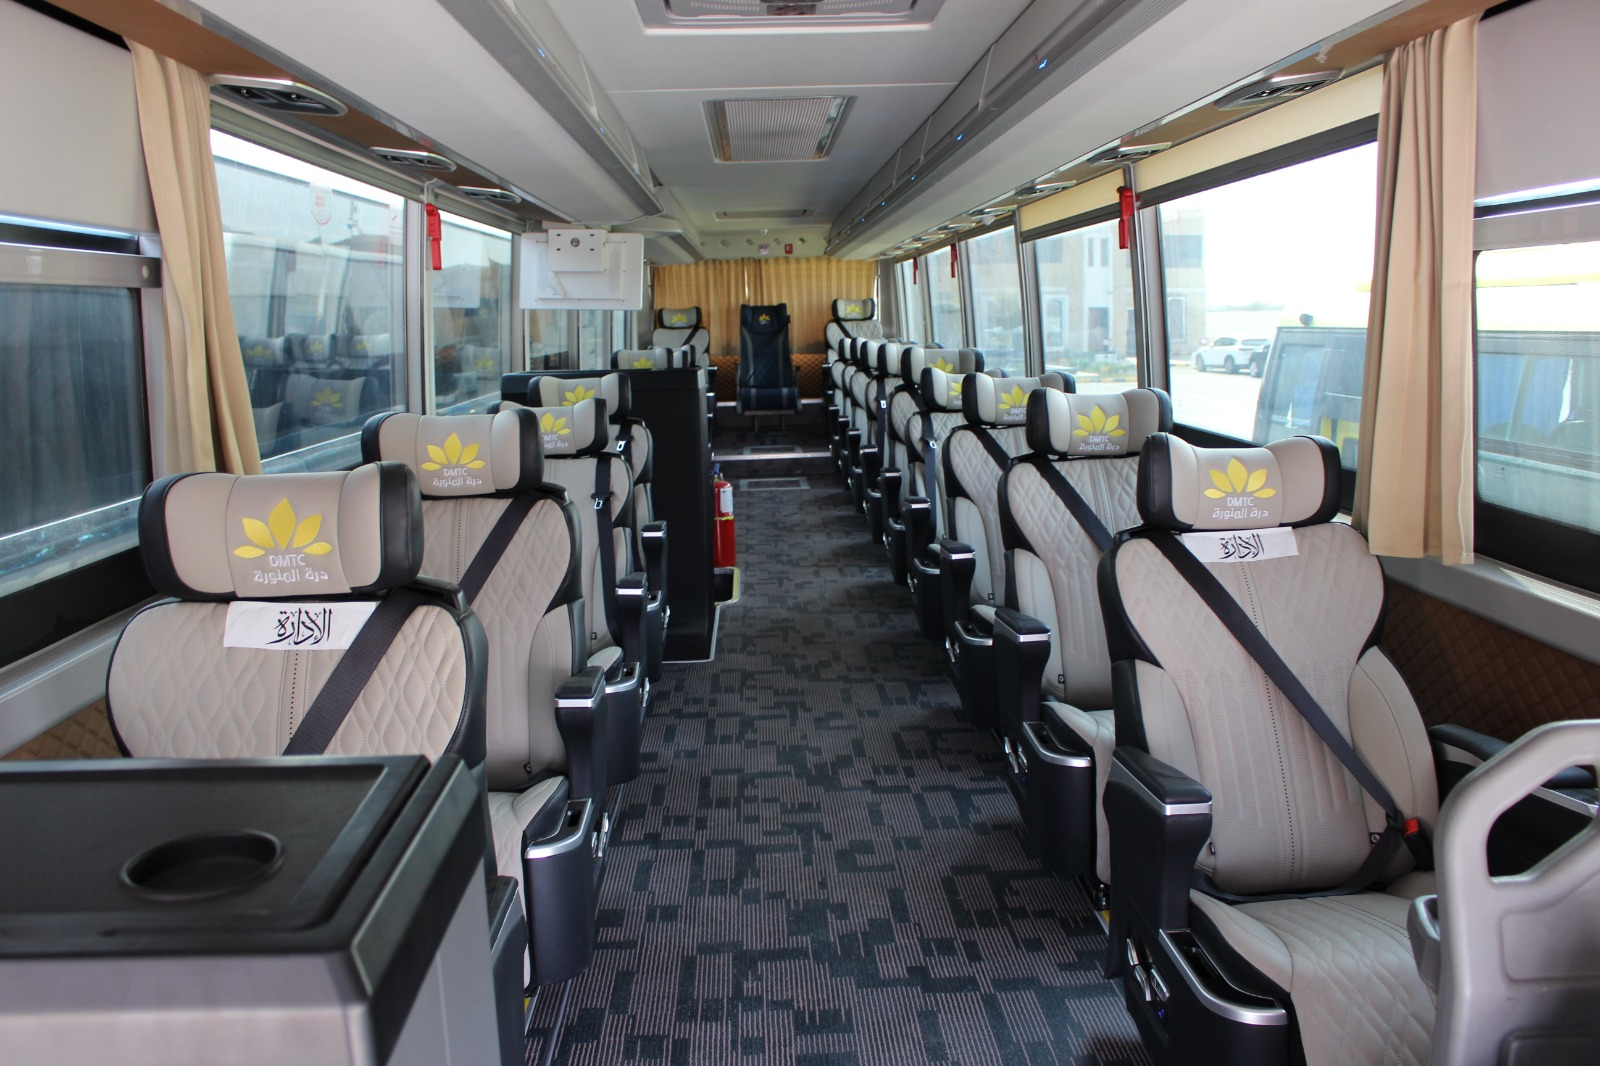
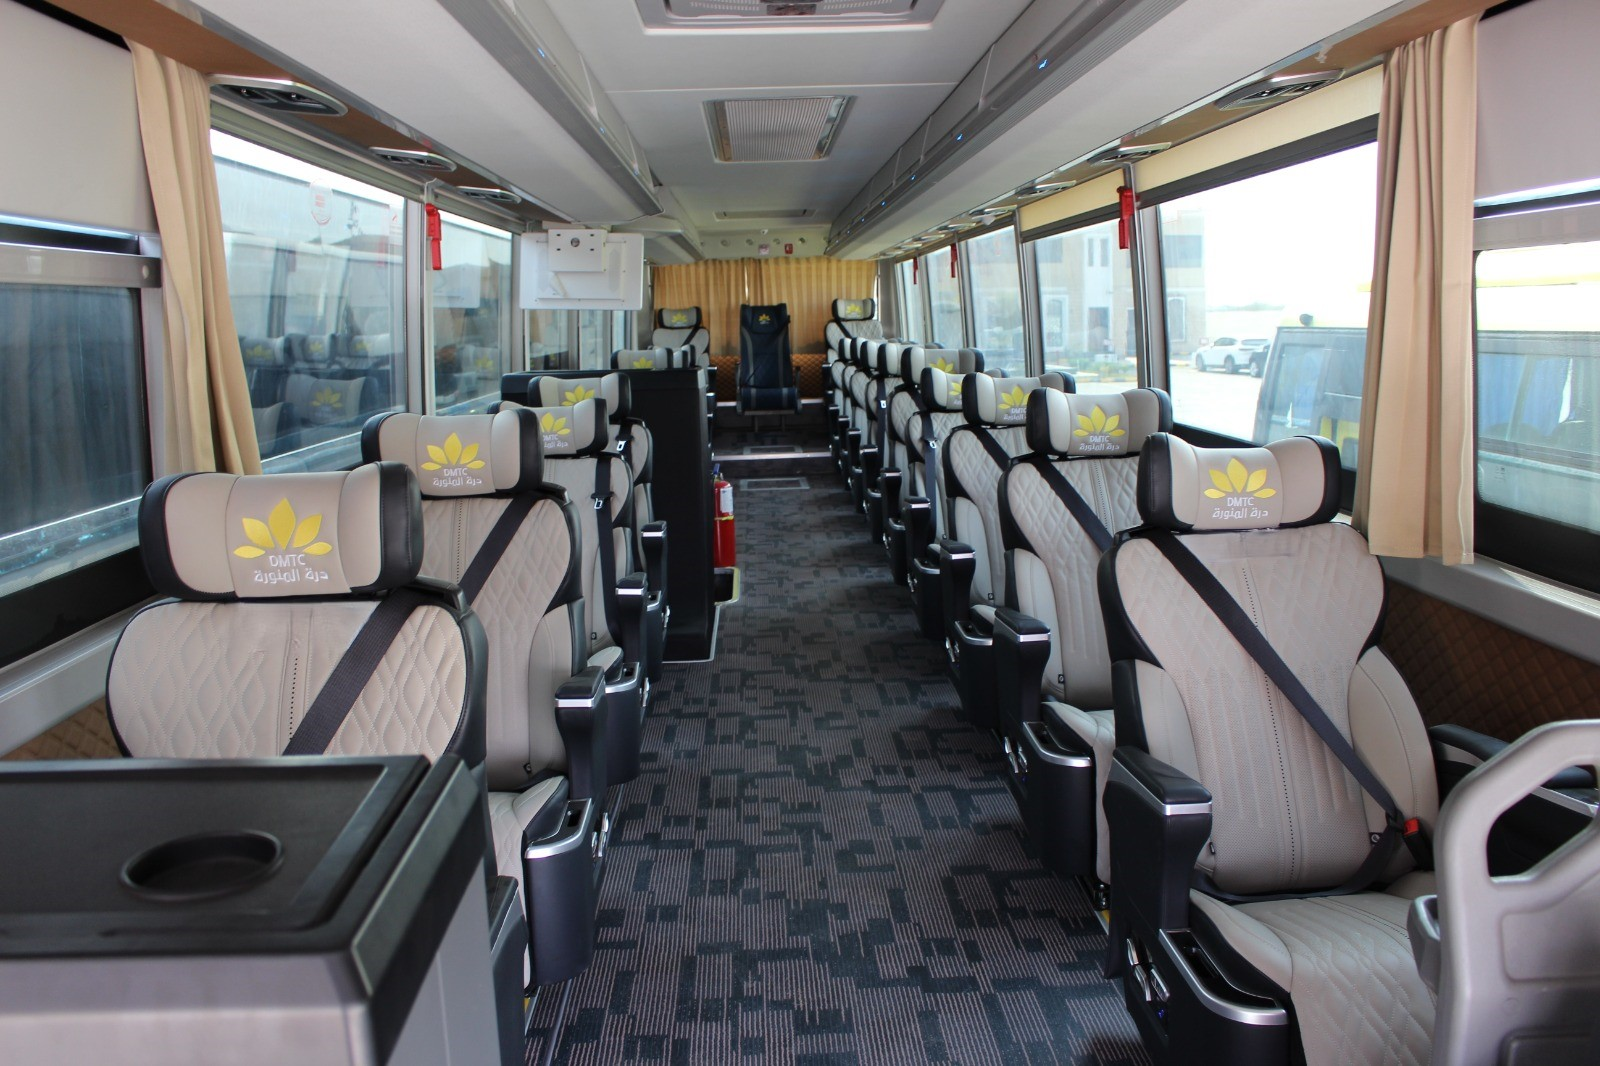
feat(images): update image configurations and replace deprecated assets
- Enhanced image quality settings in next.config.ts by adding new sizes and qualities.
- Replaced deprecated image assets in fleet categories with updated versions.
- Updated multiple components to utilize the new SiteImage component for improved image handling.
- Removed unused image files to streamline the project and reduce clutter.

Changed region(s): [[0.125, 0.5572, 0.25, 0.6191], [0.7188, 0.4953, 0.8125, 0.5263]]

diff --git a/src/content/ar/fleet.ts b/src/content/ar/fleet.ts
@@ -113,22 +113,21 @@ export const fleet: readonly FleetCategory[] = [
       "نظام تحديد المواقع GPS",
       "تكييف مناسب للأجواء",
     ],
-    coverImage: "/fleet/city-2025/side.webp",
+    coverImage: "/fleet/city-2025/side-plaza.jpg",
     exteriorImages: [
-      "/fleet/city-2025/side.webp",
-      "/fleet/city-2025/front.webp",
       "/fleet/city-2025/side-plaza.jpg",
       "/fleet/city-2025/front-plaza.jpg",
+      "/fleet/city-2025/side.webp",
+      "/fleet/city-2025/front.webp",
     ],
     interiorImages: [
-      "/fleet/city-2025/interior.webp",
       "/fleet/city-2025/interior-seats.jpeg",
       "/fleet/city-2025/interior-rows.jpeg",
       "/fleet/city-2025/interior-aisle.jpeg",
       "/fleet/city-2025/interior-cabin.jpeg",
       "/fleet/city-2025/interior-curtains.jpeg",
     ],
-    images: ["/fleet/city-2025/side.webp"],
+    images: ["/fleet/city-2025/side-plaza.jpg"],
   },
   {
     id: "labour-2024",
@@ -162,12 +161,15 @@ export const fleet: readonly FleetCategory[] = [
       "تبريد مريح",
     ],
     coverImage: "/fleet/coaster-2026/side.webp",
-    exteriorImages: ["/fleet/coaster-2026/side.webp", "/fleet/coaster-2026/front.webp"],
+    exteriorImages: [
+      "/fleet/coaster-2026/side.webp",
+      "/fleet/coaster-2026/front.jpg",
+      "/fleet/coaster-2026/side-plaza.jpg",
+    ],
     interiorImages: [
       "/fleet/coaster-2026/interior-aisle.jpeg",
       "/fleet/coaster-2026/interior-cabin.jpeg",
       "/fleet/coaster-2026/interior-curtains.jpeg",
-      "/fleet/coaster-2026/interior-vents.jpeg",
     ],
     images: ["/fleet/coaster-2026/side.webp"],
   },

diff --git a/src/content/en/fleet.ts b/src/content/en/fleet.ts
@@ -113,22 +113,21 @@ export const fleet: readonly FleetCategory[] = [
       "GPS systems",
       "Cooling bus comfort",
     ],
-    coverImage: "/fleet/city-2025/side.webp",
+    coverImage: "/fleet/city-2025/side-plaza.jpg",
     exteriorImages: [
-      "/fleet/city-2025/side.webp",
-      "/fleet/city-2025/front.webp",
       "/fleet/city-2025/side-plaza.jpg",
       "/fleet/city-2025/front-plaza.jpg",
+      "/fleet/city-2025/side.webp",
+      "/fleet/city-2025/front.webp",
     ],
     interiorImages: [
-      "/fleet/city-2025/interior.webp",
       "/fleet/city-2025/interior-seats.jpeg",
       "/fleet/city-2025/interior-rows.jpeg",
       "/fleet/city-2025/interior-aisle.jpeg",
       "/fleet/city-2025/interior-cabin.jpeg",
       "/fleet/city-2025/interior-curtains.jpeg",
     ],
-    images: ["/fleet/city-2025/side.webp"],
+    images: ["/fleet/city-2025/side-plaza.jpg"],
   },
   {
     id: "labour-2024",
@@ -162,12 +161,15 @@ export const fleet: readonly FleetCategory[] = [
       "Cooling bus comfort",
     ],
     coverImage: "/fleet/coaster-2026/side.webp",
-    exteriorImages: ["/fleet/coaster-2026/side.webp", "/fleet/coaster-2026/front.webp"],
+    exteriorImages: [
+      "/fleet/coaster-2026/side.webp",
+      "/fleet/coaster-2026/front.jpg",
+      "/fleet/coaster-2026/side-plaza.jpg",
+    ],
     interiorImages: [
       "/fleet/coaster-2026/interior-aisle.jpeg",
       "/fleet/coaster-2026/interior-cabin.jpeg",
       "/fleet/coaster-2026/interior-curtains.jpeg",
-      "/fleet/coaster-2026/interior-vents.jpeg",
     ],
     images: ["/fleet/coaster-2026/side.webp"],
   },

diff --git a/src/content/fr/fleet.ts b/src/content/fr/fleet.ts
@@ -113,22 +113,21 @@ export const fleet: readonly FleetCategory[] = [
       "Systèmes GPS",
       "Confort climatisé",
     ],
-    coverImage: "/fleet/city-2025/side.webp",
+    coverImage: "/fleet/city-2025/side-plaza.jpg",
     exteriorImages: [
-      "/fleet/city-2025/side.webp",
-      "/fleet/city-2025/front.webp",
       "/fleet/city-2025/side-plaza.jpg",
       "/fleet/city-2025/front-plaza.jpg",
+      "/fleet/city-2025/side.webp",
+      "/fleet/city-2025/front.webp",
     ],
     interiorImages: [
-      "/fleet/city-2025/interior.webp",
       "/fleet/city-2025/interior-seats.jpeg",
       "/fleet/city-2025/interior-rows.jpeg",
       "/fleet/city-2025/interior-aisle.jpeg",
       "/fleet/city-2025/interior-cabin.jpeg",
       "/fleet/city-2025/interior-curtains.jpeg",
     ],
-    images: ["/fleet/city-2025/side.webp"],
+    images: ["/fleet/city-2025/side-plaza.jpg"],
   },
   {
     id: "labour-2024",
@@ -162,12 +161,15 @@ export const fleet: readonly FleetCategory[] = [
       "Confort climatisé",
     ],
     coverImage: "/fleet/coaster-2026/side.webp",
-    exteriorImages: ["/fleet/coaster-2026/side.webp", "/fleet/coaster-2026/front.webp"],
+    exteriorImages: [
+      "/fleet/coaster-2026/side.webp",
+      "/fleet/coaster-2026/front.jpg",
+      "/fleet/coaster-2026/side-plaza.jpg",
+    ],
     interiorImages: [
       "/fleet/coaster-2026/interior-aisle.jpeg",
       "/fleet/coaster-2026/interior-cabin.jpeg",
       "/fleet/coaster-2026/interior-curtains.jpeg",
-      "/fleet/coaster-2026/interior-vents.jpeg",
     ],
     images: ["/fleet/coaster-2026/side.webp"],
   },

diff --git a/src/content/id/fleet.ts b/src/content/id/fleet.ts
@@ -113,22 +113,21 @@ export const fleet: readonly FleetCategory[] = [
       "Sistem GPS",
       "Kenyamanan AC bus",
     ],
-    coverImage: "/fleet/city-2025/side.webp",
+    coverImage: "/fleet/city-2025/side-plaza.jpg",
     exteriorImages: [
-      "/fleet/city-2025/side.webp",
-      "/fleet/city-2025/front.webp",
       "/fleet/city-2025/side-plaza.jpg",
       "/fleet/city-2025/front-plaza.jpg",
+      "/fleet/city-2025/side.webp",
+      "/fleet/city-2025/front.webp",
     ],
     interiorImages: [
-      "/fleet/city-2025/interior.webp",
       "/fleet/city-2025/interior-seats.jpeg",
       "/fleet/city-2025/interior-rows.jpeg",
       "/fleet/city-2025/interior-aisle.jpeg",
       "/fleet/city-2025/interior-cabin.jpeg",
       "/fleet/city-2025/interior-curtains.jpeg",
     ],
-    images: ["/fleet/city-2025/side.webp"],
+    images: ["/fleet/city-2025/side-plaza.jpg"],
   },
   {
     id: "labour-2024",
@@ -162,12 +161,15 @@ export const fleet: readonly FleetCategory[] = [
       "Kenyamanan AC bus",
     ],
     coverImage: "/fleet/coaster-2026/side.webp",
-    exteriorImages: ["/fleet/coaster-2026/side.webp", "/fleet/coaster-2026/front.webp"],
+    exteriorImages: [
+      "/fleet/coaster-2026/side.webp",
+      "/fleet/coaster-2026/front.jpg",
+      "/fleet/coaster-2026/side-plaza.jpg",
+    ],
     interiorImages: [
       "/fleet/coaster-2026/interior-aisle.jpeg",
       "/fleet/coaster-2026/interior-cabin.jpeg",
       "/fleet/coaster-2026/interior-curtains.jpeg",
-      "/fleet/coaster-2026/interior-vents.jpeg",
     ],
     images: ["/fleet/coaster-2026/side.webp"],
   },

diff --git a/src/components/gallery/PhotoGallery.tsx b/src/components/gallery/PhotoGallery.tsx
@@ -8,13 +8,11 @@ import { cn } from "@/lib/cn"
 import { ChevronLeft, ChevronRight, X } from "lucide-react"
 import { motion, useMotionValue } from "motion/react"
 import { useTranslations } from "next-intl"
-import Image from "next/image"
+import { SiteImage as Image } from "@/components/ui/SiteImage"
 import { useCallback, useEffect, useId, useMemo, useRef, useState } from "react"
 
 const SWIPE_DISTANCE = 72
 const SWIPE_VELOCITY = 550
-/** Must match `images.qualities` in next.config.ts */
-const IMAGE_QUALITY = 90
 
 type TabId = "all" | "fleet" | "interior" | "workshop" | "facilities"
 
@@ -197,7 +195,6 @@ export const PhotoGallery = ({ photos }: PhotoGalleryProps) => {
               width={photo.width}
               height={photo.height}
               sizes="(max-width: 767px) 50vw, (max-width: 1279px) 33vw, 25vw"
-              quality={IMAGE_QUALITY}
               priority={index < 4}
               className="h-auto w-full object-cover transition-transform duration-700 ease-out group-hover:scale-[1.03] motion-reduce:transition-none motion-reduce:group-hover:scale-100"
             />
@@ -233,7 +230,6 @@ export const PhotoGallery = ({ photos }: PhotoGalleryProps) => {
                 width={current.width}
                 height={current.height}
                 sizes="100vw"
-                quality={IMAGE_QUALITY}
                 priority
                 draggable={false}
                 className="pointer-events-none max-h-[min(82dvh,920px)] w-auto max-w-[min(96vw,1400px)] object-contain shadow-[0_24px_80px_-28px_rgba(0,0,0,0.65)]"

diff --git a/src/components/fleet/FleetShowroom.tsx b/src/components/fleet/FleetShowroom.tsx
@@ -5,7 +5,7 @@ import { Link } from "@/i18n/navigation"
 import { cn } from "@/lib/cn"
 import type { FleetCategory } from "@/content/types"
 import { useTranslations } from "next-intl"
-import Image from "next/image"
+import { SiteImage as Image } from "@/components/ui/SiteImage"
 import "./fleet.css"
 import { useCallback, useEffect, useState } from "react"
 
@@ -145,7 +145,8 @@ export const FleetShowroom = ({ categories }: FleetShowroomProps) => {
             alt={`${bus.name}, ${counter}`}
             fill
             priority={index === 0 && shot === 0}
-            sizes="(min-width:1024px) 60vw, 100vw"
+            quality={100}
+            sizes="(min-width:1024px) 70vw, 100vw"
             className="object-cover motion-safe:animate-[fleet-fade_450ms_ease-out]"
           />
           {count > 1 ? (
@@ -301,6 +302,7 @@ export const FleetShowroom = ({ categories }: FleetShowroomProps) => {
               src={current}
               alt={`${bus.name}, ${counter}`}
               fill
+              quality={100}
               sizes="100vw"
               className="rounded-2xl object-contain"
             />

diff --git a/src/components/landing/HeroVideo.tsx b/src/components/landing/HeroVideo.tsx
@@ -1,5 +1,6 @@
 "use client"
 
+import { SiteImage } from "@/components/ui/SiteImage"
 import {
   forwardRef,
   useCallback,
@@ -24,7 +25,7 @@ type HeroVideoProps = {
 const VIDEO_SRC = "/hero/NewHero.mp4"
 // Frame at (duration - endFrameOffsetSeconds), the exact point playback freezes on.
 /* Bump when replacing the still so browsers don’t keep a stale depot frame. */
-const END_FRAME_SRC = "/hero/hero-end.jpg?v=2"
+const END_FRAME_SRC = "/hero/hero-end.jpg"
 
 export const HeroVideo = forwardRef<HeroVideoHandle, HeroVideoProps>(
   function HeroVideo({ reducedMotion }, ref) {
@@ -242,12 +243,13 @@ export const HeroVideo = forwardRef<HeroVideoHandle, HeroVideoProps>(
           preload="none"
           loop={false}
         />
-        {/* eslint-disable-next-line @next/next/no-img-element */}
-        <img
+        <SiteImage
           className="hero-video__end-frame"
           src={END_FRAME_SRC}
           alt=""
-          decoding="async"
+          fill
+          sizes="100vw"
+          priority={false}
         />
       </div>
     )

diff --git a/src/components/sections/CTABandClient.tsx b/src/components/sections/CTABandClient.tsx
@@ -4,7 +4,7 @@ import { OPEN_QUOTE_EVENT } from "@/components/layout/FloatingQuoteCta"
 import { useReducedMotion } from "@/hooks/useReducedMotion"
 import { gsap } from "gsap"
 import { ScrollTrigger } from "gsap/ScrollTrigger"
-import Image from "next/image"
+import { SiteImage as Image } from "@/components/ui/SiteImage"
 import { useLayoutEffect, useRef } from "react"
 
 gsap.registerPlugin(ScrollTrigger)
@@ -77,10 +77,10 @@ export const CTABandClient = ({
         <Image
           src="/hero/landing-sky.jpg"
           alt=""
-          width={1024}
-          height={576}
-          className="absolute inset-0 size-full object-cover object-center"
+          fill
           sizes="100vw"
+          className="object-cover object-center"
+          priority={false}
         />
         <div className="absolute inset-0 bg-gradient-to-b from-white/55 via-white/70 to-white/90 dark:from-black/72 dark:via-black/82 dark:to-black/92" />
       </div>

diff --git a/src/components/sections/AboutPreviewClient.tsx b/src/components/sections/AboutPreviewClient.tsx
@@ -10,7 +10,7 @@ import { toLocaleDigits } from "@/lib/localeDigits"
 import { gsap } from "gsap"
 import { ScrollTrigger } from "gsap/ScrollTrigger"
 import { useLocale } from "next-intl"
-import Image from "next/image"
+import { SiteImage as Image } from "@/components/ui/SiteImage"
 import { useLayoutEffect, useRef } from "react"
 
 gsap.registerPlugin(ScrollTrigger)
@@ -101,10 +101,9 @@ export const AboutPreviewClient = ({
         <Image
           src="/hero/landing-sky.jpg"
           alt=""
-          width={1024}
-          height={576}
-          className="absolute inset-0 size-full object-cover object-center"
+          fill
           sizes="130vw"
+          className="object-cover object-center"
           priority={false}
         />
       </div>

diff --git a/src/components/gallery/PhotoStrip.tsx b/src/components/gallery/PhotoStrip.tsx
@@ -2,7 +2,7 @@ import { getPhotos } from "@/content"
 import type { AppLocale } from "@/content/types"
 import { Link } from "@/i18n/navigation"
 import { cn } from "@/lib/cn"
-import Image from "next/image"
+import { SiteImage as Image } from "@/components/ui/SiteImage"
 
 type PhotoStripProps = {
   locale: AppLocale
@@ -110,7 +110,6 @@ const StripFrame = ({
       width={photo.width}
       height={photo.height}
       sizes={sizes}
-      quality={90}
       priority={priority}
       className="size-full object-cover transition-transform duration-700 ease-out group-hover:scale-[1.04] motion-reduce:transition-none motion-reduce:group-hover:scale-100"
     />

diff --git a/next.config.ts b/next.config.ts
@@ -60,8 +60,9 @@ const nextConfig: NextConfig = {
     formats: ["image/avif", "image/webp"],
     // Prefer sharper masters in the gallery lightbox and editorial strips.
     deviceSizes: [640, 750, 828, 1080, 1200, 1920, 2048, 2560, 3840],
-    imageSizes: [64, 96, 128, 256, 384, 640],
-    qualities: [75, 90],
+    imageSizes: [64, 96, 128, 256, 384, 640, 750, 828],
+    // SiteImage defaults to 90; 100 for fleet showroom / lightbox masters.
+    qualities: [75, 90, 100],
     // Admin uploads (news covers, testimonial photos) get resized like local images.
     remotePatterns: optimizedImageHosts().map((hostname) => ({ protocol: "https", hostname })),
   },

diff --git a/src/app/[locale]/news/[slug]/page.tsx b/src/app/[locale]/news/[slug]/page.tsx
@@ -4,7 +4,7 @@ import type { AppLocale } from "@/content/types"
 import { getTranslations, setRequestLocale } from "next-intl/server"
 import { languageAlternates, localizedPath } from "@/lib/seo"
 import { formatContentDate, loadNewsPost } from "@/lib/siteContent"
-import Image from "next/image"
+import { SiteImage as Image } from "@/components/ui/SiteImage"
 import { isVideo, skipOptimizer } from "@/lib/media"
 import type { Metadata } from "next"
 import { notFound } from "next/navigation"
